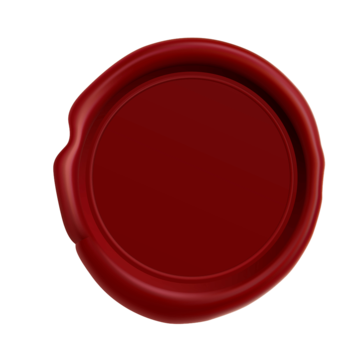
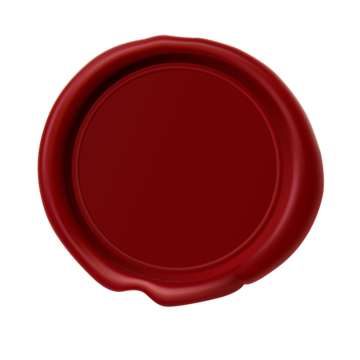
latest fixes

Changed region(s): [[0.0917, 0.0917, 0.9167, 0.9167]]

diff --git a/src/css/style.css b/src/css/style.css
@@ -144,9 +144,11 @@ header h1 {
   box-shadow: 3px 3px 3px rgba(0, 0, 0, 0.718);
 }
 #no-project-btn{
-  height: 60px;
-  width: 60px;
-  padding: 1px;
+  height: 120px;
+  width: 120px;
+  background-image: url(../images/wax-stamp.png);
+  background-size: cover;
+  padding: 15px;
   border-radius: 50px;
   border: none;
   background-color: transparent;
@@ -155,6 +157,8 @@ header h1 {
   font: inherit;
   font-size: 1.2rem;
   font-weight: bold;
+  margin-left: -25px;
+  margin-bottom: -25px;
 }
 .editor {
   background-image: url(../images/old-envelope.jpg);
@@ -189,6 +193,19 @@ header h1 {
   ::-webkit-scrollbar-thumb:hover {
     cursor: pointer;
   }
+  .toggleoutline {
+    display: flex;
+  position: fixed;
+  height: 78.5%;
+  width: 25%;
+  }
+  .togglelist{
+    right: 0;
+    display: flex;
+  position: fixed;
+  height: 78.5%;
+  width: 25%;
+  }
 .outline {
   display:flex;
   flex-direction:column;
@@ -198,6 +215,7 @@ header h1 {
   color: var(--ivory);
   position: relative;
   height: 100%;
+  width: 100%;
   overflow-y: hidden;
   box-shadow: 15px 15px 15px rgba(0, 0, 0, 0.749);
   z-index: 2;
@@ -236,6 +254,7 @@ header h1 {
   color: rgba(48, 31, 16, 0.866);
   text-align: center;
   height: 100%;
+  width: 100%;
 }
 
 footer {
@@ -398,9 +417,7 @@ footer p {
 #toggleListBtn {
   display: none;
 }
-.togglelist{
-  height: 100%;
-}
+
 
 @media (max-width: 768px) {
 
@@ -448,7 +465,7 @@ footer p {
     border-top-right-radius: 15px;
   }
   .toggleoutline {
-    position: absolute;
+    position: fixed;
     display: flex;
     align-items: flex-end;
     justify-content: flex-start;
@@ -467,7 +484,7 @@ footer p {
   }
 
   .togglelist {
-    position: absolute;
+    position: fixed;
     display: flex;
     align-items: flex-end;
     justify-content: flex-end;
@@ -494,8 +511,9 @@ footer p {
     rotate: 0deg;
   }
   .writing-area {
-    position: absolute;
+    position: fixed;
     width: 90%;
+    height: 70%;
     left: 5%;
     margin: 0 auto;
   }
@@ -516,5 +534,8 @@ footer p {
   }
   #logoutBtn{
     margin-top: 85px;
+  }
+  .main-editor{
+    height: 200px;
   }
 }

diff --git a/src/jsx/richTextEditor.jsx b/src/jsx/richTextEditor.jsx
@@ -99,7 +99,7 @@ function closeEditor(){
         QuillOb.editor = null
         document.querySelector('.writing-area').innerHTML =`
         <div class="editor">
-          <button class="new-project" id="no-project-btn">Start A New Project</button>
+          <button class="new-project" id="no-project-btn">New Project</button>
         </div>
         `
     }

diff --git a/src/editor/index.html b/src/editor/index.html
@@ -39,7 +39,7 @@
       <div class="writing-area">
         <div class="editor">
           <button class="new-project" id="no-project-btn">
-            Start A New Project
+            New Project
           </button>
         </div>
       </div>
